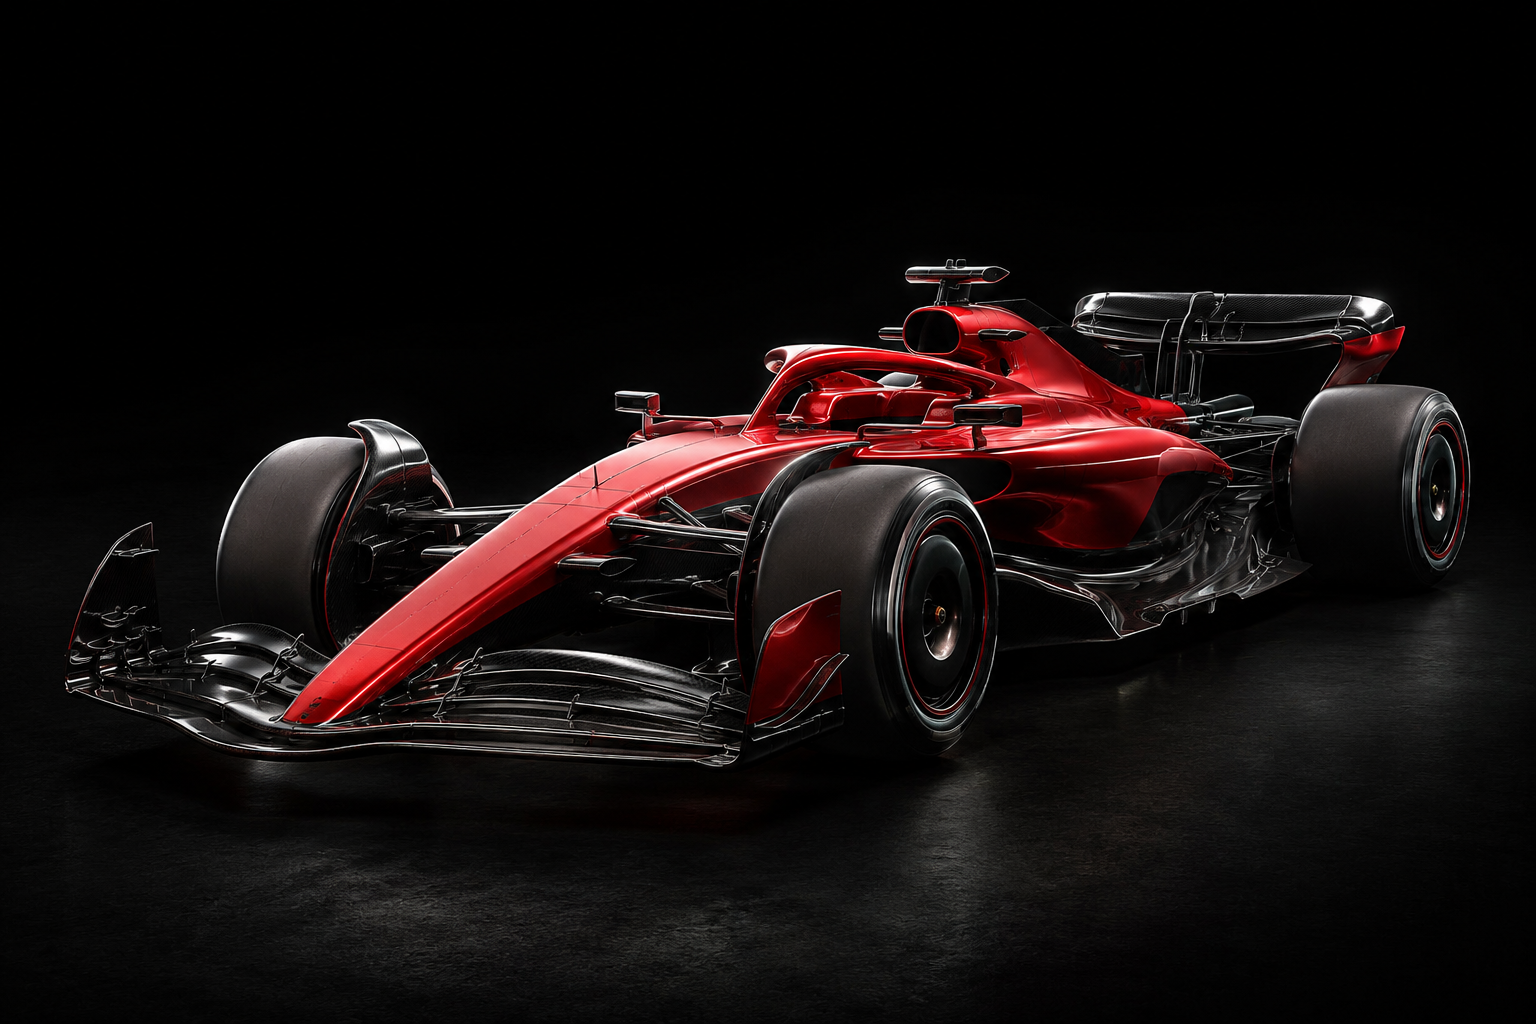
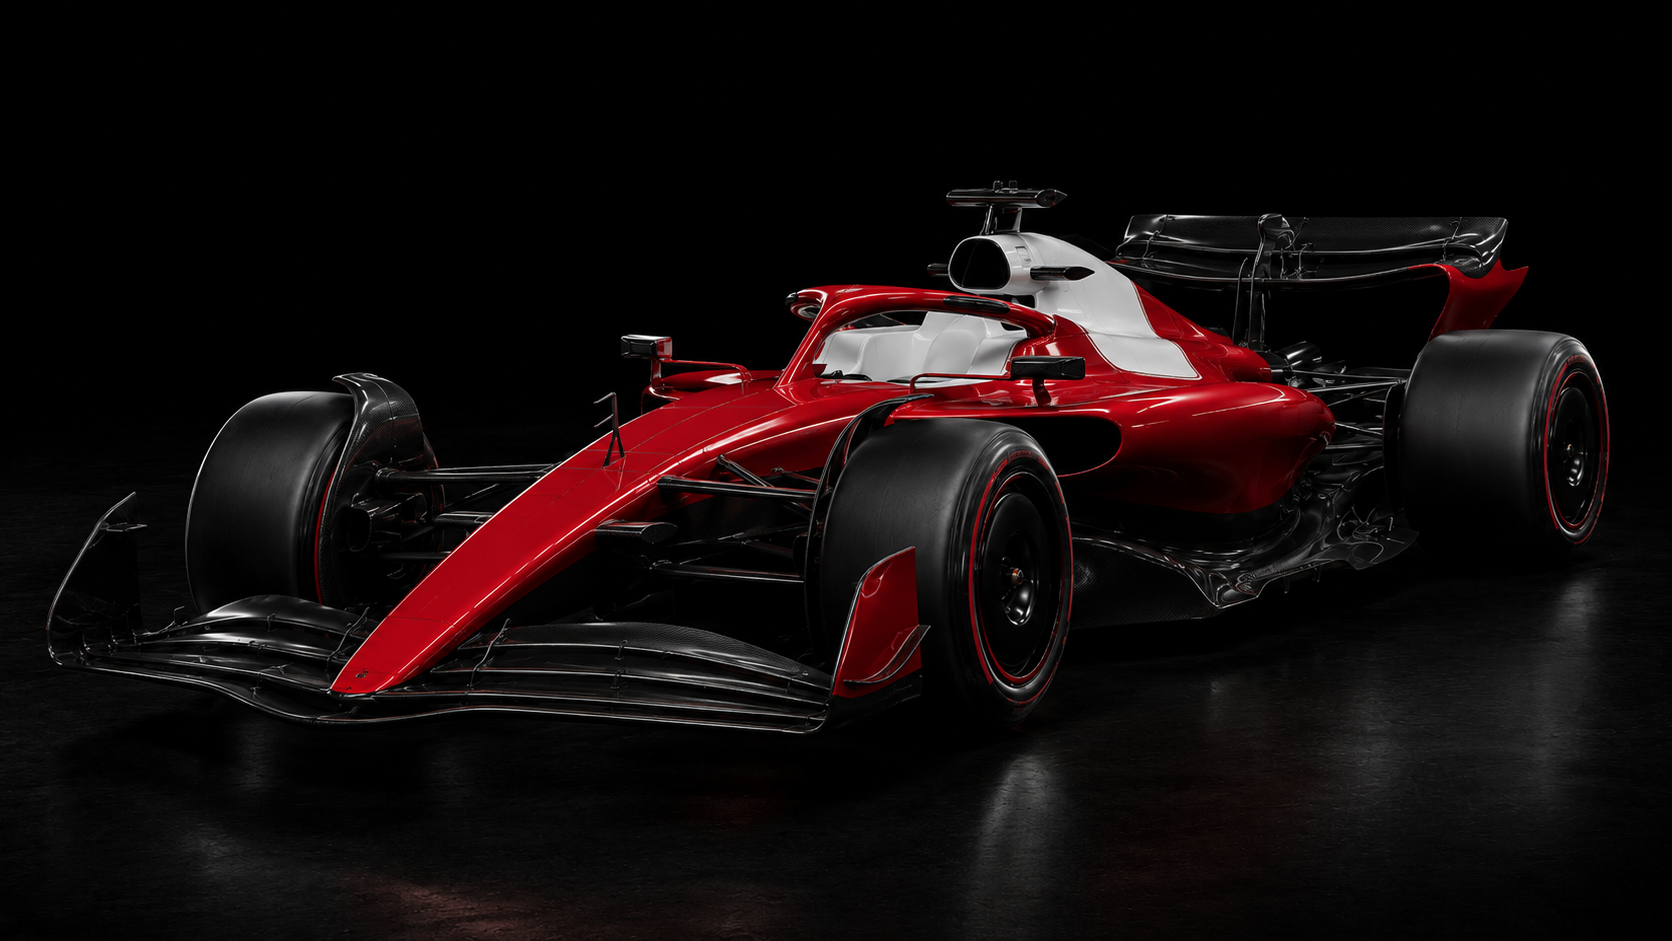
fix(radio): mostra corridas do ano corrente (2026) + nova arte Ferrari
- RadioPage: filtra corridas futuras (sem rádio), ordena mais recente
  primeiro, auto-seleciona a última corrida e rótulos de temporada dinâmicos
  (antes fixo em 2025; OpenF1 já tem rádio de 2026 que toca)
- Nova foto do carro Ferrari + cache-buster versionado (CARS_VERSION) p/
  forçar fetch da arte nova mesmo com nome de arquivo reutilizado

diff --git a/src/pages/RadioPage.jsx b/src/pages/RadioPage.jsx
@@ -1,4 +1,4 @@
-import { useState } from 'react'
+import { useState, useEffect } from 'react'
 import { Headphones, Radio, ChevronRight } from 'lucide-react'
 import { motion, AnimatePresence } from 'framer-motion'
 import { useRaceSessions, useSessionRadio } from '../hooks/useLiveRace'
@@ -172,7 +172,15 @@ export function RadioPage() {
   const [selectedKey, setSelectedKey] = useState(null)
   const { data: sessions, isLoading: sessionsLoading } = useRaceSessions()
 
+  // Auto-select the most recent race so the freshest radios show immediately.
+  useEffect(() => {
+    if (!selectedKey && sessions?.length) setSelectedKey(sessions[0].session_key)
+  }, [sessions, selectedKey])
+
   const selectedSession = sessions?.find(s => s.session_key === selectedKey)
+  const seasonLabel = sessions?.[0]?.date_start
+    ? new Date(sessions[0].date_start).getFullYear()
+    : new Date().getFullYear()
 
   return (
     <div className="w-full max-w-[1400px] mx-auto px-4 lg:px-6 py-6">
@@ -184,7 +192,7 @@ export function RadioPage() {
             Rádio das Equipes
           </h1>
         </div>
-        <p className="text-xs text-neutral-500 ml-8">Temporada 2025 — selecione uma corrida para ouvir os rádios</p>
+        <p className="text-xs text-neutral-500 ml-8">Temporada {seasonLabel} — selecione uma corrida para ouvir os rádios</p>
       </div>
 
       <div className="flex gap-4 items-start">
@@ -194,7 +202,7 @@ export function RadioPage() {
           style={{ background: '#0d0d0d', border: '1px solid var(--color-border)' }}
         >
           <p className="text-[9px] text-neutral-600 uppercase tracking-widest font-semibold mb-2 px-1">
-            Corridas 2025
+            Corridas {seasonLabel}
           </p>
           <RaceList
             sessions={sessions}

diff --git a/src/hooks/useLiveRace.js b/src/hooks/useLiveRace.js
@@ -127,10 +127,15 @@ export function useRaceSessions() {
     queryKey: ['raceSessions', year],
     queryFn: async () => {
       // Current year first; fall back to last year in the off-season so the
-      // radio archive is never empty.
+      // radio archive is never empty. Only races that have already happened are
+      // included (future rounds have no radio yet) and they are ordered newest
+      // first so the latest GP is on top.
+      const now = Date.now()
       for (const y of [year, year - 1]) {
         const data = await getSessions(y).catch(() => [])
-        const races = data.filter(s => s.session_type === 'Race').reverse()
+        const races = data
+          .filter(s => s.session_type === 'Race' && new Date(s.date_start).getTime() <= now)
+          .sort((a, b) => new Date(b.date_start) - new Date(a.date_start))
         if (races.length) return races
       }
       return []

diff --git a/src/utils/images.js b/src/utils/images.js
@@ -49,10 +49,15 @@ const CIRCUIT_MAP = {
   imola:         null,
 }
 
+// Cache-buster for car art. Filenames are reused when art is replaced, so the
+// browser/CDN would otherwise keep serving the old image. Bump this whenever a
+// car PNG is updated to force a fresh fetch.
+const CARS_VERSION = 2
+
 export function getCarImage(constructorId) {
   const file = CAR_MAP[constructorId?.toLowerCase()]
   if (!file) return null
-  return `/images/${encodeURIComponent(file)}`
+  return `/images/${encodeURIComponent(file)}?v=${CARS_VERSION}`
 }
 
 export function getCircuitImage(circuitId) {